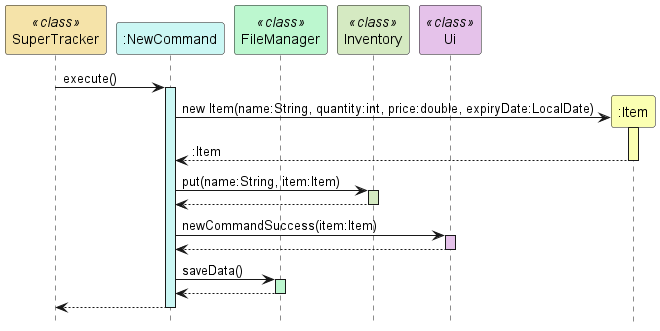
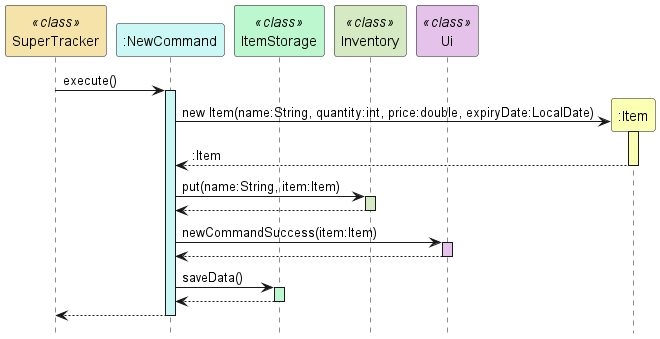
Update docs

diff --git a/docs/DeveloperGuide.md b/docs/DeveloperGuide.md
@@ -208,7 +208,7 @@ A NewCommand instance is created by the `parseNewCommand` method called by Parse
 - `Item`: For creating the new item
 - `Inventory`: For adding the new item into the inventory
 - `Ui`: To notify the user about the successful execution of `NewCommand`
-- `FileManager`: To save the new item added onto the hard disk
+- `ItemStorage`: To save the new item added onto the hard disk
 
 The following sequence diagram shows the execution of a NewCommand<br>
 ![NewCommandSequence](uml-diagrams/NewCommandSequence.png)
@@ -217,7 +217,7 @@ The following sequence diagram shows the execution of a NewCommand<br>
 2. A new `Item` object with the given parameters (name, quantity, price, expiry date) is created and returned to `NewCommand`
 3. The `put` method of the `Inventory` class is called to add the newly created item into the inventory
 4. The `newCommandSuccess` method of the `Ui` class is called to notify that `NewCommand` has been successfully executed
-5. The `saveData` method of the `FileManager` class is called to save the new item added onto the hard disk
+5. The `saveData` method of the `ItemStorage` class is called to save the new item added onto the hard disk
 
 > Note that if the user inputs a name parameter that contains the file delimiter of the save file, the file delimiter in the name will be
 > replaced. e.g. If the file delimiter is determined to be `",,,"`, the item name `"app,,,le` will be renamed to `"app_le"`
@@ -226,29 +226,33 @@ The following sequence diagram shows the execution of a NewCommand<br>
 The following is a class diagram of the UpdateCommand and its relevant dependencies<br>
 ![UpdateCommandClass](uml-diagrams/UpdateCommandClass.png)
 
-The `UpdateCommand` class implements the `Command` interface and is responsible for updating existing items in the 
+The `UpdateCommand` class implements the `Command` interface and is responsible for updating an existing item in the 
 `Inventory`. A UpdateCommand instance is created by the `parseUpdateCommand` method called by Parser, which ensures 
-that the provided parameters (name, quantity, price) are valid. While it is optional to include quantity and price, one
-of the aforementioned parameters must be provided.
+that the provided parameters (name, quantity, price, expiryDate) are valid. At least one of the optional parameters 
+(quantity, price, expiryDate) must be provided.
 
 #### Dependencies
-- `Item`: For getting the quantity and price of the to be updated item
-- `Inventory`: For updating the item in the inventory
+- `Item`: To create a new instance of the updated item
+- `Inventory`: For adding the updated item into the inventory
 - `Ui`: To notify the user about the successful execution of `UpdateCommand`
+- `ItemStorage`: To save the updated item onto the hard disk
 
 The following sequence diagram shows the execution of a UpdateCommand<br>
 ![UpdateCommandSequence](uml-diagrams/UpdateCommandSequence.png)
 
 1. The `SuperTracker` class calls the `execute` method of `UpdateCommand`
-2. The item object of the item to be updated is obtained from `inventory`
+2. The `get` method of `Inventory` is called to return the old instance of the item
 3. There is an optional check for newQuantity being -1 (an invalid value that indicates that quantity should not be 
 updated). If the condition holds true it retrieves the item's previous quantity.
-4. There is another optional check for newPrice being -1 (an invalid value that indicates that price should not be
-   updated). If the condition holds true it retrieves the item's previous price.
-5. A new `Item` object with the given parameters (name, new quantity, new price, old expiry date) is created and returned to `UpdateCommand`
-6. The `put` method of the `Inventory` class is called to update the item in the inventory
-7. The `UpdateCommandSuccess` method of the `Ui` class is called to notify that `UpdateCommand` has been successfully executed
-8. The `saveData` method of the `FileManager` class is called to save updated item onto the hard disk
+4. There is an optional check for newPrice being -1 (an invalid value that indicates that price should not be
+updated). If the condition holds true it retrieves the item's previous price.
+5. There is an optional check for newExpiryDate being "1-1-1" (an invalid value that indicates that expiry date should not be
+updated). If the condition holds true it retrieves the item's previous expiry date.
+6. The `getName` method of the old instance of the item is called to retrieve the item's previous name
+7. A new `Item` object with the updated parameters (quantity, price expiryDate) is created and returned to `UpdateCommand`
+8. The `put` method of the `Inventory` class is called to add the updated item into the inventory
+9. The `UpdateCommandSuccess` method of the `Ui` class is called to notify that `UpdateCommand` has been successfully executed
+10. The `saveData` method of the `ItemStorage` class is called to save updated item onto the hard disk
 
 ### Add Command
 The following is a class diagram of the AddCommand and its relevant dependencies<br>
@@ -256,7 +260,7 @@ The following is a class diagram of the AddCommand and its relevant dependencies
 
 The `AddCommand` class implements the `Command` interface and is responsible for increasing the quantity of an item.
 An AddCommand instance is created by `parseAddCommand` method called by Parser, which ensures that the provided parameters (name, quantity) are valid.
-This command is inherited by the `BuyCommand` class.
+This command is inherited by the [BuyCommand](#buy-command) class.
 
 #### Dependencies
 - `Item`: To create a new instance of the updated item
@@ -265,9 +269,7 @@ This command is inherited by the `BuyCommand` class.
 - `ItemStorage`: To save the updated item onto the hard disk
 
 The following sequence diagram shows the execution of an AddCommand<br>
-<a name="addcommandsequence">
 ![AddCommandSequence](uml-diagrams/AddCommandSequence.png)
-</a>
 
 1. The `SuperTracker` class calls the `execute` method of `AddCommand`
 2. The private method `executeWithoutUi` is called to execute the command excluding Ui outputs
@@ -279,7 +281,7 @@ quantity, name, price, expiry date of the old item respectively
 7. The `saveData` method of the `ItemStorage` class is called to save the updated item onto the hard disk
 8. The `addCommandSuccess` method of the `Ui` class is called to notify that `AddCommand` has been successfully executed
 
-> Note: The execute add command without Ui block will be referenced by the sequence diagram of BuyCommand
+> Note: The execute add command without Ui block will be referenced by the sequence diagram of [BuyCommand](#buy-command)
 
 ### Remove Command
 The following is a class diagram of the RemoveCommand and its relevant dependencies<br>
@@ -287,7 +289,7 @@ The following is a class diagram of the RemoveCommand and its relevant dependenc
 
 The `RemoveCommand` class implements the `Command` interface and is responsible for decreasing the quantity of an item.
 A RemoveCommand instance is created by `parseRemoveCommand` method called by Parser, which ensures that the provided parameters (name, quantity) are valid.
-This command is inherited by the `SellCommand` class.
+This command is inherited by the [SellCommand](#sell-command) class.
 
 #### Dependencies
 - `Item`: To create a new instance of the updated item
@@ -308,7 +310,7 @@ The following sequence diagram shows the execution of a RemoveCommand<br>
 7. The `saveData` method of the `ItemStorage` class is called to save the updated item onto the hard disk
 8. The `removeCommandSuccess` method of the `Ui` class is called to notify that `RemoveCommand` has been successfully executed
 
-> Note: The execute remove command without Ui block will be referenced by the sequence diagram of SellCommand
+> Note: The execute remove command without Ui block will be referenced by the sequence diagram of [SellCommand](#sell-command)
 
 ### Delete Command
 The following is a class diagram of the DeleteCommand and its relevant dependencies<br>
@@ -321,17 +323,18 @@ method in the class will call the `delete` method from `Inventory` class to remo
 the `saveData` method from `ItemStorage` class to save changes to the inventory.
 
 #### Dependencies
-- `Inventory`: Checking and deleting item from inventory
+- `Inventory`: To check if an item exists and delete it from the inventory
 - `Ui`: To notify the user about the successful execution of `DeleteCommand`
+- `ItemStorage`: To remove the deleted item from the hard disk
 
 The following sequence diagram shows the execution of a DeleteCommand<br>
 ![DeleteCommandSequence](uml-diagrams/DeleteCommandSequence.png)
 
 1. The `SuperTracker` class calls the `execute` method of `DeleteCommand`
 2. The `contains` method of `Inventory` to check if the item exists in the inventory
-3. If item exists, the `delete` method of `Inventory` is called to remove the item from inventory
-4. Subsequently, the `deleteCommandSuccess` method of `Ui` is called to print the delete message
-5. The `saveData` method of `ItemStorage` is called to save the change to the text file containing inventory information
+3. If item exists, the `delete` method of `Inventory` is called to delete the item from inventory
+4. Subsequently, the `deleteCommandSuccess` method of `Ui` is called to notify that `DeleteCommand` has been successfully executed
+5. The `saveData` method of `ItemStorage` is called to remove the deleted item from the hard disk
 
 ### Find Command
 The following is a class diagram of the FindCommand and its relevant dependencies<br>
@@ -363,20 +366,22 @@ The `RenameCommand` class implements the `Command` interface and is responsible 
 A RenameCommand instance is created by the `parseRenameCommand` method called by `Parser`, which ensures that the provided parameters (name and newName) are valid.
 
 #### Dependencies
+- `Item`: To create a new instance of the renamed item
 - `Inventory`: For getting the chosen item in the inventory
 - `Ui`: To notify the user about the successful execution of `RenameCommand`
+- `ItemStorage`: To save the renamed item onto the hard disk
 
 The following sequence diagram shows the execution of a RenameCommand<br>  
 ![RenameCommandSequence](uml-diagrams/RenameCommandSequence.png)
 
 1. The `SuperTracker` class calls the `execute` method of `RenameCommand`
-2. The item object of the item to be renamed is obtained from `inventory`
+2. The item object of the item to be renamed is obtained from `Inventory`
 3. The quantity, price and expiry date are obtained from the item
 4. A new `Item` object with the given parameters (newName, quantity, price, expiry date) is created and returned to `RenameCommand`
-5. The `put` method of the `Inventory` class is called to put the new item in the inventory
-6. The `delete` method of the `Inventory` class is called to delete the old item
+5. The `delete` method of the `Inventory` class is called to delete the old item
+6. The `put` method of the `Inventory` class is called to put the new item into the inventory
 7. The `RenameCommandSuccess` method of the `Ui` class is called to notify that `RenameCommand` has been successfully executed
-8. The `saveData` method of the `FileManager` class is called to save renamed item onto the hard disk
+8. The `saveData` method of the `ItemStorage` class is called to save the renamed item onto the hard disk
 
 ### List Command
 The following is a class diagram of the FindCommand and its relevant dependencies<br>
@@ -436,7 +441,7 @@ The following sequence diagram shows the execution of a ListCommand<br>
 The following is a class diagram of the ReportCommand and its relevant dependencies<br>
 ![ReportCommandClass](uml-diagrams/ReportCommandClass.png)
 
-The `ReportCommand` class implements the `Command` interface and is responsible for printing out a report to the output.
+The `ReportCommand` class implements the `Command` interface and is responsible for printing a report to the output.
 A ReportCommand instance is created by the `parseReportCommand` method called by Parser, which parses the user input to determine how the report should be printed out.
 
 #### Dependencies

diff --git a/docs/team/awesomesjh.md b/docs/team/awesomesjh.md
@@ -92,7 +92,10 @@ Given below are my contributions to the project.
 - **Contributions to team-based tasks:**
   - Refactored code in `Parser` as many of the commands were using the same error checking methods
   - Refactored code in `HelpCommandUi` to make it less repetitive and more scalable
+  - Refactored code for `parseExpenditureCommand`, `parseRevenueCommand` and `parseProfitCommand` by 
+  creating a generic class `Triple`
   - Fixed UML diagrams in developer guide according to feedback from TA
+  - Helped to check and fix some of my teammates' incorrect UML diagrams
   - Helped to create new issues and close completed issues on the issue tracker
   - Reviewed PRs and provided suggestions on fixing bugs, improving code quality etc.
   - Teammate PRs reviewed: [#75](https://github.com/AY2324S2-CS2113-T13-4/tp/pull/75), [#104](https://github.com/AY2324S2-CS2113-T13-4/tp/pull/104), [#212](https://github.com/AY2324S2-CS2113-T13-4/tp/pull/212)
